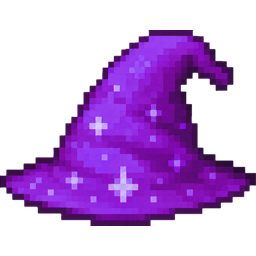
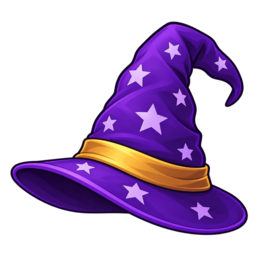
feat: novas imagens do Mago Roxo em alta resolução
Troca as três figuras do mascote, que eram pixel art de baixa resolução e
apareciam borradas nas telas atuais, pela ilustração nova.

- purple-hat-256.png continua 256x256 e é substituição direta: favicon,
  og:image, marca da navegação e do rodapé e selo do slug nos cartões.
- icon-purple-right-137x158.png -> icon-purple-right-279x400.png
- icon-purple-left-64x92.png -> icon-purple-left-156x224.png

As duas figuras foram recortadas na moldura da arte — a fonte vinha centrada
num quadrado com margem larga, e sem o recorte o mago encolheria ~25% na
mesma largura de CSS. Cada arquivo foi dimensionado para 2x do maior uso
real: o `right` chega a 137px no masthead do site, o `left` só a 74px no
estado vazio do catálogo, por isso os tamanhos diferentes.

Mantida a cor verdadeira: paletizar economizava bytes, mas reduzia o canal
alpha a ~20 níveis e serrilhava as bordas — justamente o defeito que a troca
vem corrigir.

Verificado com captura headless de cada uso, nos temas claro e escuro:
navegação, hero, diagrama de publicação, masthead, market-fig, selo do slug,
catálogo vazio, 404 e login do painel.

diff --git a/apps/site/web/src/components/catalog/Catalog.tsx b/apps/site/web/src/components/catalog/Catalog.tsx
@@ -95,7 +95,7 @@ export function Catalog() {
           </div>
           <img
             className="market-fig wiz"
-            src="/assets/images/icon-purple-right-137x158.png"
+            src="/assets/images/icon-purple-right-279x400.png"
             alt=""
           />
         </div>
@@ -184,7 +184,7 @@ export function Catalog() {
 
         {result && result.items.length === 0 && !loading && (
           <div className="empty mt-6">
-            <img className="wiz" src="/assets/images/icon-purple-left-64x92.png" alt="" />
+            <img className="wiz" src="/assets/images/icon-purple-left-156x224.png" alt="" />
             <h3>Nenhuma skill encontrada.</h3>
             <p>Tente outros termos, ou limpe o filtro de tag.</p>
           </div>

diff --git a/apps/site/web/src/pages/SkillPage.tsx b/apps/site/web/src/pages/SkillPage.tsx
@@ -52,7 +52,7 @@ export function SkillPage() {
       <section className="skill-page">
         <div className="wrap">
           <div className="empty" style={{ maxWidth: '30rem', margin: '40px auto' }}>
-            <img className="wiz" src="/assets/images/icon-purple-right-137x158.png" alt="" />
+            <img className="wiz" src="/assets/images/icon-purple-right-279x400.png" alt="" />
             <h3>Skill não encontrada</h3>
             <p>{error}</p>
             <Link to="/#catalogo" className="btn btn-primary" style={{ marginTop: '22px' }}>

diff --git a/apps/homepage/web/src/components/landing/PublishFlow.tsx b/apps/homepage/web/src/components/landing/PublishFlow.tsx
@@ -141,7 +141,7 @@ export function PublishFlow() {
             <div className="dia2-cell dia2-cell--right">
               <div className="dia2-target">
                 <div className="diag-tool t1" ref={topCardRef}>
-                  <img src="/assets/images/icon-purple-left-64x92.png" alt="" />
+                  <img src="/assets/images/icon-purple-left-156x224.png" alt="" />
                   <span className="wz">
                     SKILL.md
                     <small>frontmatter + markdown + anexos</small>

diff --git a/apps/site/web/src/pages/NotFoundPage.tsx b/apps/site/web/src/pages/NotFoundPage.tsx
@@ -6,7 +6,7 @@ export function NotFoundPage() {
     <section className="skill-page">
       <div className="wrap">
         <div className="empty" style={{ maxWidth: '30rem', margin: '40px auto' }}>
-          <img className="wiz" src="/assets/images/icon-purple-right-137x158.png" alt="" />
+          <img className="wiz" src="/assets/images/icon-purple-right-279x400.png" alt="" />
           <p
             className="display grad-text"
             style={{ fontSize: '3.4rem', lineHeight: 1, marginBottom: '10px' }}

diff --git a/apps/homepage/web/src/components/landing/Hero.tsx b/apps/homepage/web/src/components/landing/Hero.tsx
@@ -9,10 +9,10 @@ export function Hero() {
         <div className="hero-copy">
           <img
             className="hero-fig wiz"
-            src="/assets/images/icon-purple-right-137x158.png"
+            src="/assets/images/icon-purple-right-279x400.png"
             alt="O Mago Roxo, mascote do Purple Skills"
-            width={137}
-            height={158}
+            width={279}
+            height={400}
           />
           <h1 className="display">
             <span className="line">

diff --git a/apps/admin/web/src/pages/ChangePasswordPage.tsx b/apps/admin/web/src/pages/ChangePasswordPage.tsx
@@ -34,7 +34,7 @@ export function ChangePasswordPage({ onDone }: { onDone: () => void }) {
       <div className="atmos" aria-hidden />
 
       <form onSubmit={submit} className="login-card">
-        <img className="wiz" src="/assets/images/icon-purple-right-137x158.png" alt="" />
+        <img className="wiz" src="/assets/images/icon-purple-right-279x400.png" alt="" />
         <h1 className="display">Escolha uma senha</h1>
         <p className="sub">Você entrou com uma senha temporária.</p>
 

diff --git a/apps/admin/web/src/pages/LoginPage.tsx b/apps/admin/web/src/pages/LoginPage.tsx
@@ -104,7 +104,7 @@ export function LoginPage({ session, onSuccess }: { session: Session; onSuccess:
       <div className="atmos" aria-hidden />
 
       <form onSubmit={submit} className="login-card">
-        <img className="wiz" src="/assets/images/icon-purple-right-137x158.png" alt="" />
+        <img className="wiz" src="/assets/images/icon-purple-right-279x400.png" alt="" />
         <h1 className="display">
           Purple<span style={{ color: 'var(--brand)' }}>Skills</span>
         </h1>

diff --git a/apps/site/web/src/components/catalog/Masthead.tsx b/apps/site/web/src/components/catalog/Masthead.tsx
@@ -47,10 +47,10 @@ export function Masthead() {
 
         <img
           className="masthead-fig wiz"
-          src="/assets/images/icon-purple-right-137x158.png"
+          src="/assets/images/icon-purple-right-279x400.png"
           alt="O Mago Roxo, mascote do Purple Skills"
-          width={137}
-          height={158}
+          width={279}
+          height={400}
         />
       </div>
     </header>

diff --git a/apps/admin/web/src/styles/base.css b/apps/admin/web/src/styles/base.css
@@ -514,7 +514,7 @@ input[type='checkbox'] {
 }
 
 /* ============================================================
-   O MAGO ROXO — figuras em pixel art
+   O MAGO ROXO — figuras do mascote
    ============================================================ */
 img.wiz {
   display: block;

diff --git a/apps/homepage/web/src/styles/base.css b/apps/homepage/web/src/styles/base.css
@@ -514,7 +514,7 @@ input[type='checkbox'] {
 }
 
 /* ============================================================
-   O MAGO ROXO — figuras em pixel art
+   O MAGO ROXO — figuras do mascote
    ============================================================ */
 img.wiz {
   display: block;

diff --git a/apps/site/web/src/styles/base.css b/apps/site/web/src/styles/base.css
@@ -514,7 +514,7 @@ input[type='checkbox'] {
 }
 
 /* ============================================================
-   O MAGO ROXO — figuras em pixel art
+   O MAGO ROXO — figuras do mascote
    ============================================================ */
 img.wiz {
   display: block;

diff --git a/docs/04-design-system.md b/docs/04-design-system.md
@@ -96,10 +96,14 @@ que grava a escolha de volta no `localStorage`.
 `web/public/assets/images/` guarda:
 
 - `purple-hat-256.png` — favicon, marca da navegação e selo do slug nos
-  cartões do catálogo. Derivado do chapéu pixel-art, rotacionado no matiz
-  para o roxo.
-- `icon-purple-left-64x92.png`, `icon-purple-right-137x158.png` — o Mago
-  Roxo, usado no hero e nos estados vazios.
+  cartões do catálogo. É o chapéu do Mago Roxo isolado, em quadrado de 256
+  para servir também de `og:image` e `apple-touch-icon`.
+- `icon-purple-right-279x400.png`, `icon-purple-left-156x224.png` — o Mago
+  Roxo, usado no hero, no masthead, no login e nos estados vazios. O `right`
+  tem o bico do chapéu virado para a direita e é o que aparece grande (até
+  137px de largura, por isso 2x); o `left` é o espelho, só usado pequeno —
+  no diagrama de publicação e no catálogo vazio. Os dois são recortados na
+  moldura da figura, então a largura do CSS vale como tamanho real.
 - ícones de agentes, IDEs, modelos e do MCP — só na homepage, na seção de
   ecossistema e nos diagramas. O site guarda apenas os cinco que usa.
 
